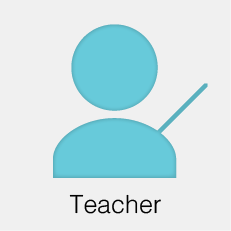
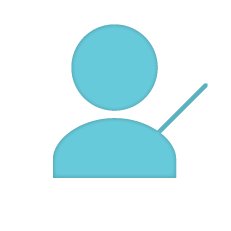
updated register options images added new ribbon color added popover to register options for teacher

Changed region(s): [[0.303, 0.8182, 0.697, 0.9394]]

diff --git a/src/app/register/register-options.html b/src/app/register/register-options.html
@@ -14,22 +14,30 @@
 
         <div class="gl-register-option">
           <div class="gl-register-option-wrapper">
-            <div class="gl-register-card gl-game-card gl-game-card--linked" ng-click="state.go('registerBeta')">
-              <div class="gl-register-card-image gl-register-card-teacher">
+            <div class="gl-game-card gl-game-card--linked"
+                 ng-click="state.go('registerBeta')">
+
+              <div class="gl-register-card-image gl-register-card-teacher"
+                   popover-placement="bottom"
+                   popover-trigger="mouseenter"
+                   popover="Request access to free games, student management tools, real-time reports, and professional development materials.">
                 <div class="gl-register-card-ribbon">
                   <div class="gl-register-card-ribbon-text">Invitation Only</div>
                 </div>
+
+                <span class="gl-register-card-text">Teacher</span>
               </div>
-              <div ng-hide="true" class="gl-register-card-text">Teacher</div>
+
             </div>
           </div>
         </div>
 
         <div class="gl-register-option">
           <div class="gl-register-option-wrapper">
-            <div class="gl-register-card gl-game-card gl-game-card--linked" ng-click="state.go('registerStudent')">
-              <div class="gl-register-card-image gl-register-card-student"></div>
-              <div ng-hide="true" class="gl-register-card-text">Student</div>
+            <div class="gl-game-card gl-game-card--linked" ng-click="state.go('registerStudent')">
+              <div class="gl-register-card-image gl-register-card-student">
+                <span class="gl-register-card-text">Student</span>
+              </div>
             </div>
           </div>
         </div>

diff --git a/src/app/register/register.less b/src/app/register/register.less
@@ -53,11 +53,6 @@
   padding-right: 20px;
 }
 
-.gl-register-card {
-  display: table-cell;
-  vertical-align: bottom;
-}
-
 .gl-register-card-teacher {
   .image-2x('register-teacher.png', 111px, 112px);
   background-position: center;
@@ -85,7 +80,7 @@
   height: 85px;
   top: -8px;
   left: -8px;
-  .image-2x('game-ribbon-blue.png', 85px, 85px);
+  .image-2x('register-card-ribbon-dark-blue.png', 85px, 85px);
 }
 
 .gl-register-card-ribbon-text {
@@ -94,20 +89,22 @@
   left: -15px;
   width: 101px;
   .rotate(-45deg);
-  font-weight: bold;
-  font-size: 13px;
+  font-weight: normal;
+  font-size: 11px;
   color: white;
   text-align: center;
 }
 
 .gl-register-card-image {
-   position: relative;
-   background-color: #F0F0F0;
-   width: 111px;
-   height: 111px;
-   background-size: cover;
+  display: table-cell;
+  vertical-align: bottom;
+
+  position: relative;
+  background-color: #F0F0F0;
+  width: 111px;
+  height: 111px;
+  background-size: cover;
  }
 
 .gl-register-card-text {
-
 }
